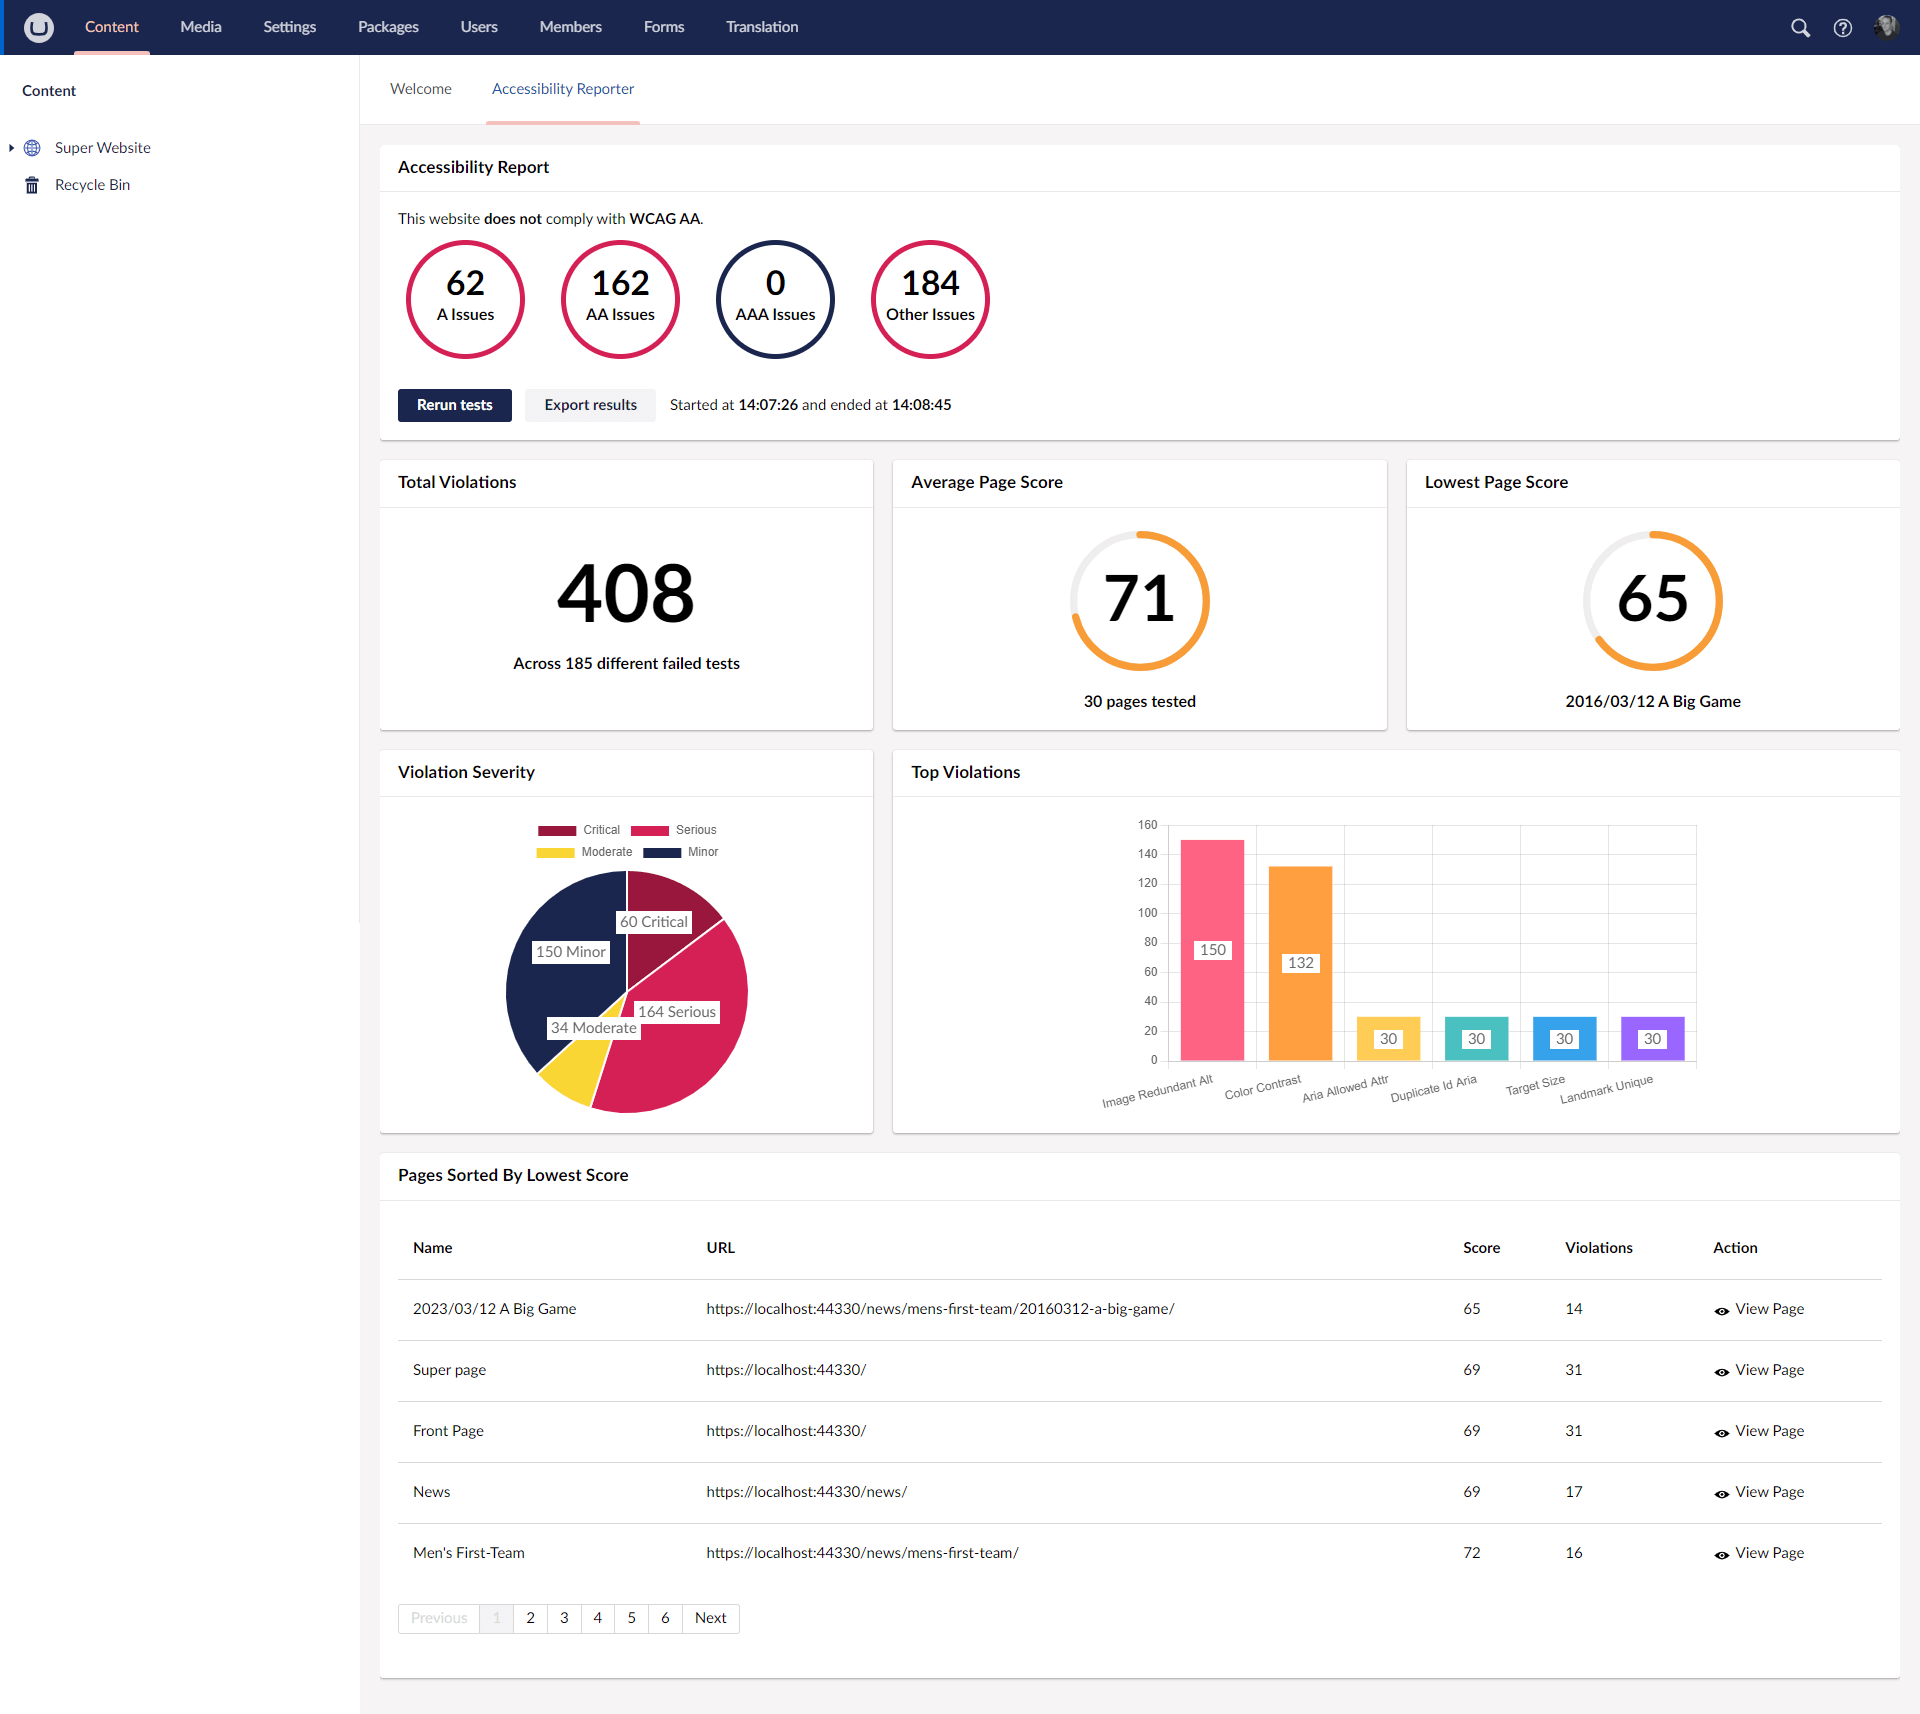
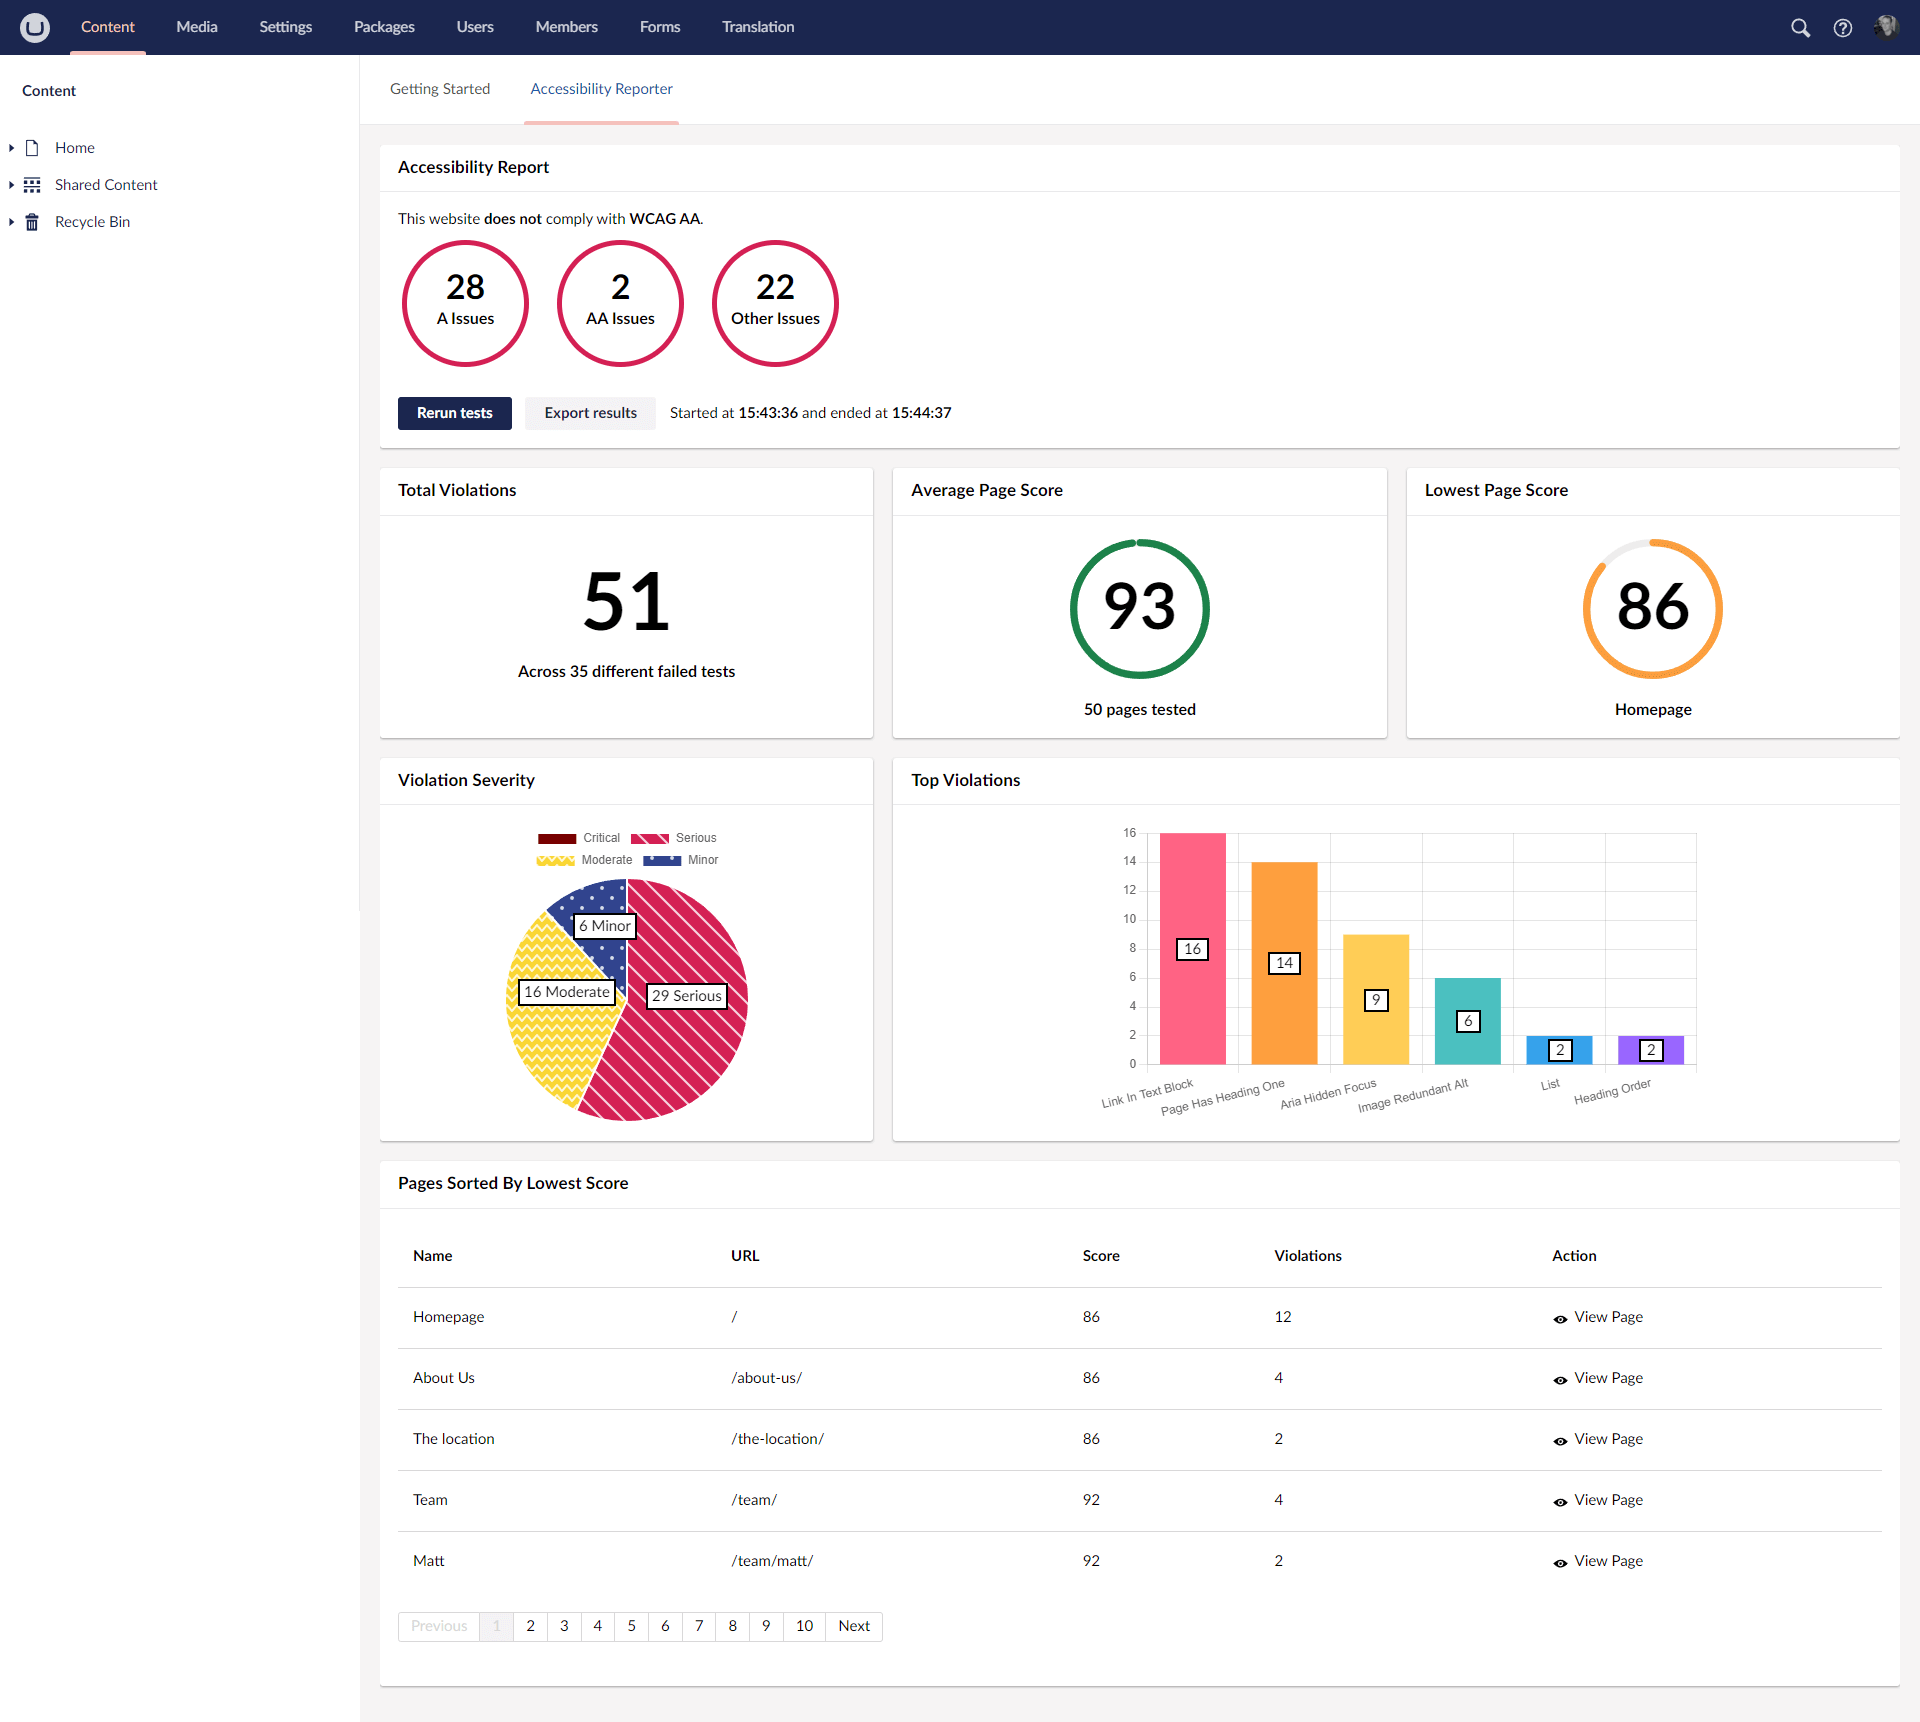
Update screenshots and readme

diff --git a/README.md b/README.md
@@ -4,7 +4,27 @@
 
 ## What is it?
 
-Accessibility Reporter for Umbraco is a content app and dashboard that helps you test the accessibility of your website against common accessibility standards, including the Web Content Accessibility Guidelines (WCAG), Section 508 and best practices, directly in Umbraco.
+Accessibility Reporter for Umbraco is a dashboard and a content app that helps you test the accessibility of your website against common accessibility standards, including the Web Content Accessibility Guidelines (WCAG), Section 508 and best practices, directly in Umbraco.
+
+## Main features
+
+- Test your website against the Web Content Accessibility Guidelines (WCAG), Section 508 and best practices directly within Umbraco.
+- Test your entire website for accessibility issues.
+- A dashboard that displays the test results, including statistics and charts showing pages with the most issues and the most common violations.
+- A content app displays the test results of your current page when editing content.
+- A detail view containing information on the location of issues in the code and how to fix them.
+- A page scoring system.
+- A manual testing checklist.
+
+## Screenshots
+
+### Dashboard of results
+
+![Dashboard showing the results of a multipage accessibility test](https://raw.githubusercontent.com/mattbegent/umbraco-accessibility-reporter/main/screenshots/dashboard.png)
+
+### Single page result
+
+![Dashboard of accessibility test results for a single page](https://raw.githubusercontent.com/mattbegent/umbraco-accessibility-reporter/main/screenshots/results.png)
 
 ## Why should I use it?
 
